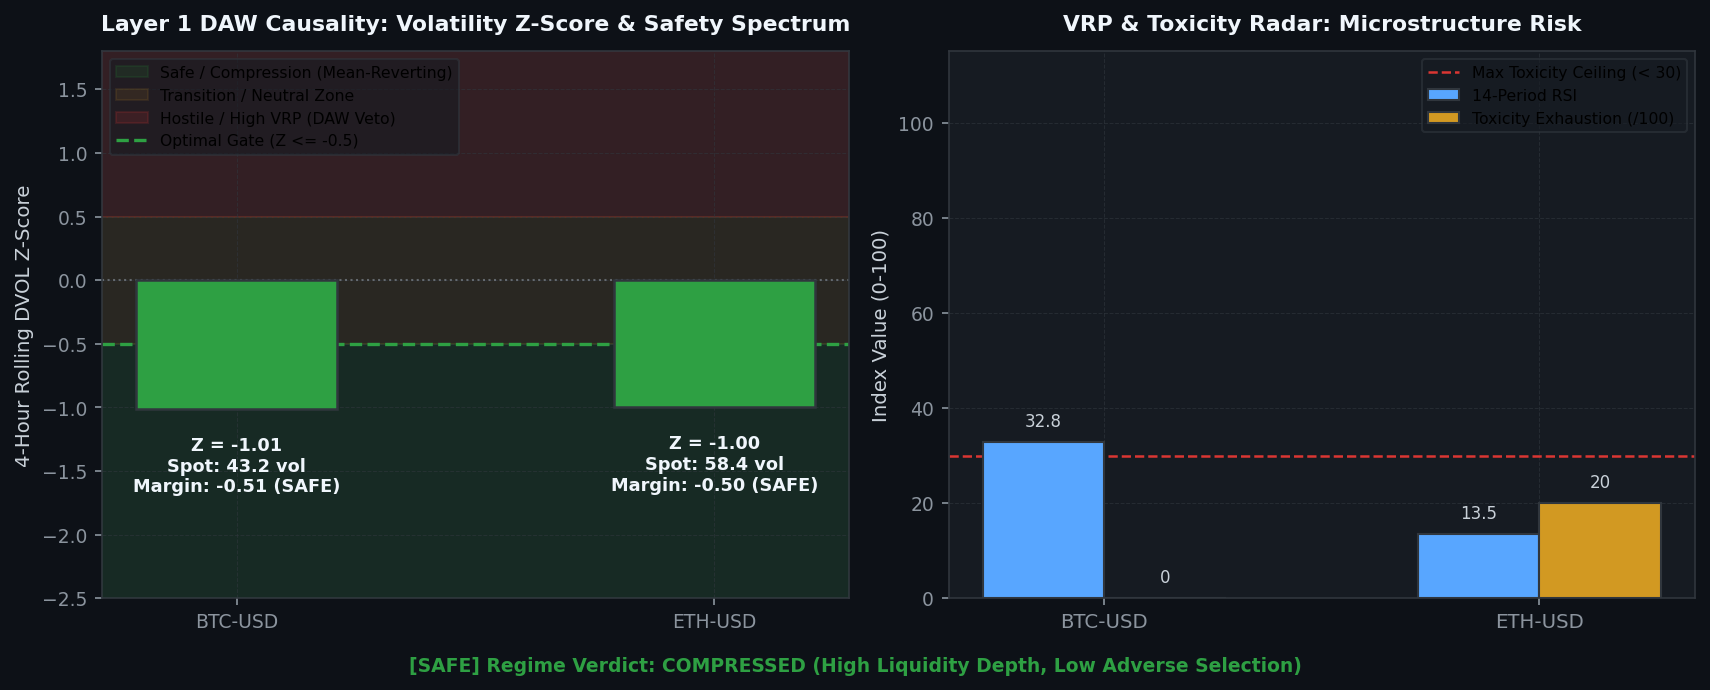
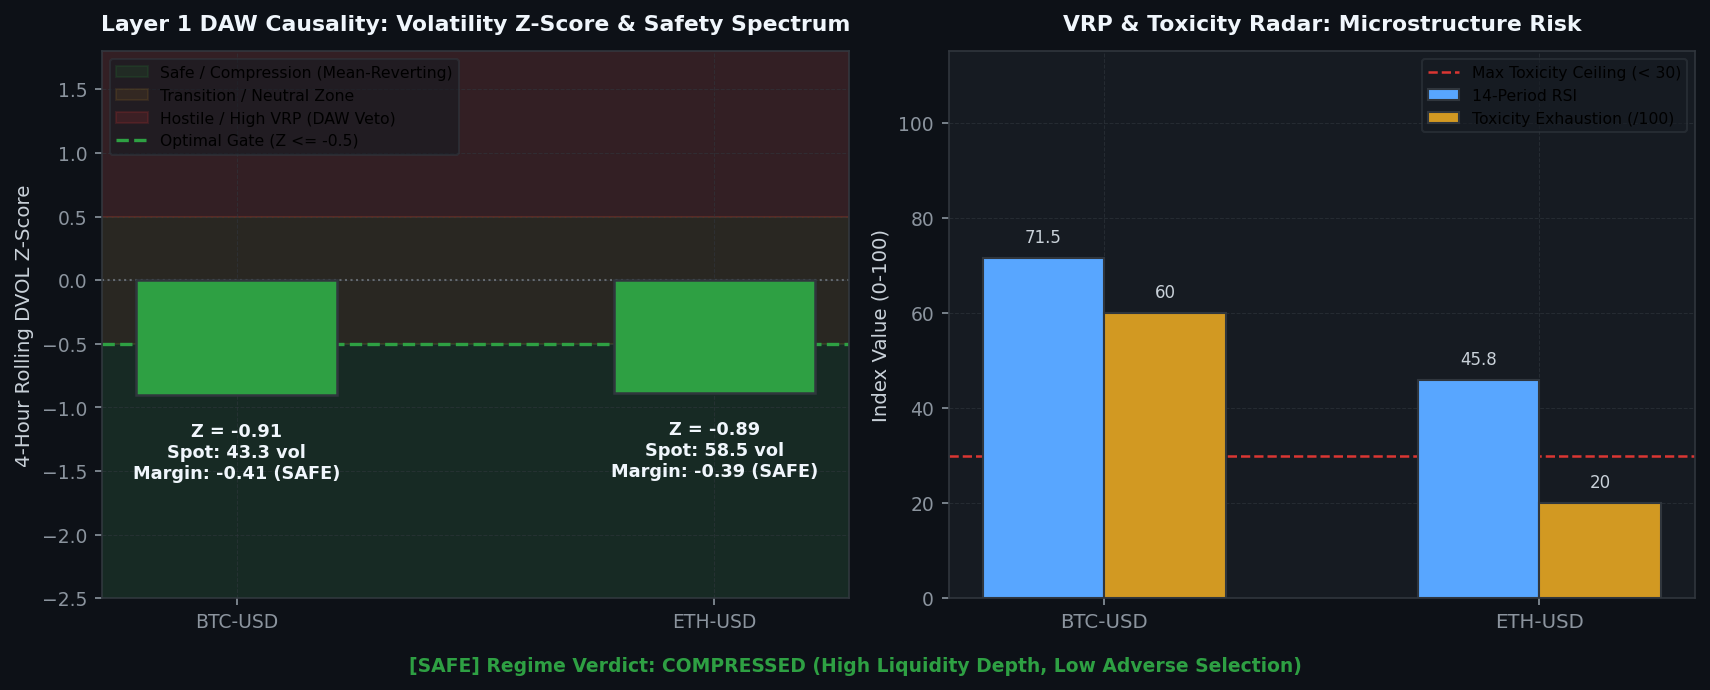
[coinbase] Hourly Status & Visual Intelligence Update: 2026-08-25 06:09:42

diff --git a/coinbase/data/hourly_status_report.md b/coinbase/data/hourly_status_report.md
@@ -3,7 +3,7 @@ layout: default
 ---
 
 # 🛡 Unified Trading System Hourly Status & Visual Intelligence
-> **Report Generated**: `2026-08-25 06:00:05 AM PDT (2026-08-25 13:00:05 UTC)`  
+> **Report Generated**: `2026-08-25 06:09:24 AM PDT (2026-08-25 13:09:24 UTC)`  
 > **System Health**: **🟢 ALL SYSTEMS NOMINAL** | **Win Rate**: `0.0%` | **Completed Trades**: `0`
 
 
@@ -15,13 +15,13 @@ Real-time Deribit implied volatility (DVOL) proxy tracking against mathematicall
 
 | Symbol | Proxy Oracle | Live Z-Score | Optimal Limit (YSP) | Safety Margin | Live VRP | Optimal VRP (YSP) | DAW Safety Verdict |
 | :--- | :--- | :--- | :--- | :--- | :--- | :--- | :--- |
-| `AVAX-USD` | DVOL_BTC | **-1.01** | **-0.50** | **-0.51** | **-10.67** | 5.0 | 🟢 SAFE |
-| `ETH-USD` | DVOL_ETH | **-1.00** | **-0.50** | **-0.50** | **+4.18** | 5.0 | 🟢 SAFE |
-| `ADA-USD` | DVOL_BTC | **-1.01** | **-0.50** | **-0.51** | **-10.68** | 5.0 | 🟢 SAFE |
-| `DOGE-USD` | DVOL_BTC | **-1.01** | **-0.50** | **-0.51** | **-8.46** | 5.0 | 🟢 SAFE |
-| `BTC-USD` | DVOL_BTC | **-1.01** | **-0.50** | **-0.51** | **-8.42** | 5.0 | 🟢 SAFE |
-| `LINK-USD` | DVOL_BTC | **-1.01** | **-0.50** | **-0.51** | **-8.47** | 5.0 | 🟢 SAFE |
-| `SOL-USD` | DVOL_BTC | **-1.01** | **-0.50** | **-0.51** | **-8.22** | 5.0 | 🟢 SAFE |
+| `AVAX-USD` | DVOL_BTC | **-0.92** | **-0.50** | **-0.42** | **-10.67** | 5.0 | 🟢 SAFE |
+| `ETH-USD` | DVOL_ETH | **-0.89** | **-0.50** | **-0.39** | **+4.18** | 5.0 | 🟢 SAFE |
+| `ADA-USD` | DVOL_BTC | **-0.92** | **-0.50** | **-0.42** | **-10.68** | 5.0 | 🟢 SAFE |
+| `DOGE-USD` | DVOL_BTC | **-0.92** | **-0.50** | **-0.42** | **-8.46** | 5.0 | 🟢 SAFE |
+| `BTC-USD` | DVOL_BTC | **-0.92** | **-0.50** | **-0.42** | **-8.42** | 5.0 | 🟢 SAFE |
+| `LINK-USD` | DVOL_BTC | **-0.92** | **-0.50** | **-0.42** | **-8.47** | 5.0 | 🟢 SAFE |
+| `SOL-USD` | DVOL_BTC | **-0.92** | **-0.50** | **-0.42** | **-8.22** | 5.0 | 🟢 SAFE |
 
 
 
@@ -37,12 +37,12 @@ We hereby certify that the mission-critical algorithmic data assets uploaded by 
 
 | Status | Data Asset | Freshness / State | Details / Timestamp |
 | :---: | :--- | :--- | :--- |
-| ✅ | **Go-List JSON** | Fresh (10.72h old) | 08-24 19:16 |
-| ✅ | **TimesFM Forecasts** | Fresh (1.16h old) | 08-25 04:50 |
-| ❌ | **Holding Times config** | STALE! (93.0h old) | Limit 35.0h |
-| ✅ | **BTC DVOL Cache** | Fresh (0.00h old) | 08-25 06:00 |
-| ✅ | **ETH DVOL Cache** | Fresh (0.00h old) | 08-25 06:00 |
-| ❌ | **Live Trading Telemetry** | STALE! (3.2h old) | Limit 0.1h |
+| ✅ | **Go-List JSON** | Fresh (10.88h old) | 08-24 19:16 |
+| ✅ | **TimesFM Forecasts** | Fresh (1.31h old) | 08-25 04:50 |
+| ❌ | **Holding Times config** | STALE! (93.1h old) | Limit 35.2h |
+| ✅ | **BTC DVOL Cache** | Fresh (0.01h old) | 08-25 06:09 |
+| ✅ | **ETH DVOL Cache** | Fresh (0.01h old) | 08-25 06:09 |
+| ❌ | **Live Trading Telemetry** | STALE! (3.4h old) | Limit 0.1h |
 
 <br>
 
@@ -107,14 +107,14 @@ Live balance sheet and open maker liquidity positions from Coinbase CDP.
 ## 4. 🤖 Foundation Model MLOps & Pipeline Orchestration
 Weekly Algorithmic Mega Cap selection, Zero-shot multi-step forward return forecasts, and VSTEF parameter grid search status.
 
-- **TimesFM Forecast DB**: 🟢 Updated 1.2h ago (2026-08-25 04:50 AM PDT)
+- **TimesFM Forecast DB**: 🟢 Updated 1.3h ago (2026-08-25 04:50 AM PDT)
 - **Last Weekly VSTEF Optimization**: `2026-08-05 09:22:38 AM PDT`
-- **Next Scheduled VSTEF Run**: `2026-08-30 07:00:00 PM PDT (Monday 02:00 UTC)` (Countdown: **133.0h (5d 12h 59m)**)
+- **Next Scheduled VSTEF Run**: `2026-08-30 07:00:00 PM PDT (Monday 02:00 UTC)` (Countdown: **132.8h (5d 12h 50m)**)
 - **Promoted Parameter Gates**: $Z_{DVOL} \le -0.5$ | Holding Horizon $= 12\text{h}$
 
 ### Algorithmic Mega Cap Selection
 - **Last Run (Confirmation)**: `2026-08-24 07:16:47 PM PDT`
-- **Next Scheduled Run**: `2026-08-30 06:00:00 PM PDT (Monday 01:00 UTC)` (Countdown: **132.0h (5d 11h 59m)**)
+- **Next Scheduled Run**: `2026-08-30 06:00:00 PM PDT (Monday 01:00 UTC)` (Countdown: **131.8h (5d 11h 50m)**)
 - **Selected Mega Cap Universe**: `BTC, BCH, AVAX, ETH, ALGO, ADA, LTC, DOGE, AAVE, LINK, DOT, HBAR`
 
 
@@ -128,8 +128,8 @@ Visualizing the impact of the VSTEF (Volatility-Synchronized Stop-Tightening Exe
 ## 5. 🖥 Multi-Node Infrastructure & Watchdog Matrix
 ```text
 ================================================================================
-   🛡  SFGK FUNNEL GUARDIAN WATCHDOG (HFT ONLY) |  01:00:05 PM
-   CPU:   9.5%  |  MEM:   8.8% (14.1GB / 15.4GB Free)
+   🛡  SFGK FUNNEL GUARDIAN WATCHDOG (HFT ONLY) |  01:09:24 PM
+   CPU:   2.8%  |  MEM:   8.8% (14.1GB / 15.4GB Free)
 ================================================================================
 SERVICE              | PID      | STATUS          | RESTARTS | INFO
 --------------------------------------------------------------------------------

diff --git a/coinbase/data/visual_intelligence.md b/coinbase/data/visual_intelligence.md
@@ -4,7 +4,7 @@ title: Visual Intelligence Gallery
 ---
 
 # 📈 Visual Intelligence Gallery
-> **Generated:** `2026-08-25 06:00:23`
+> **Generated:** `2026-08-25 06:09:42`
 > **[Return to Main Status Report](./hourly_status_report.md)**
 
 This page visualizes the internal states, market profiles, and decision criteria of the active **3-Tier Fused Decision Engine** across all layers.
